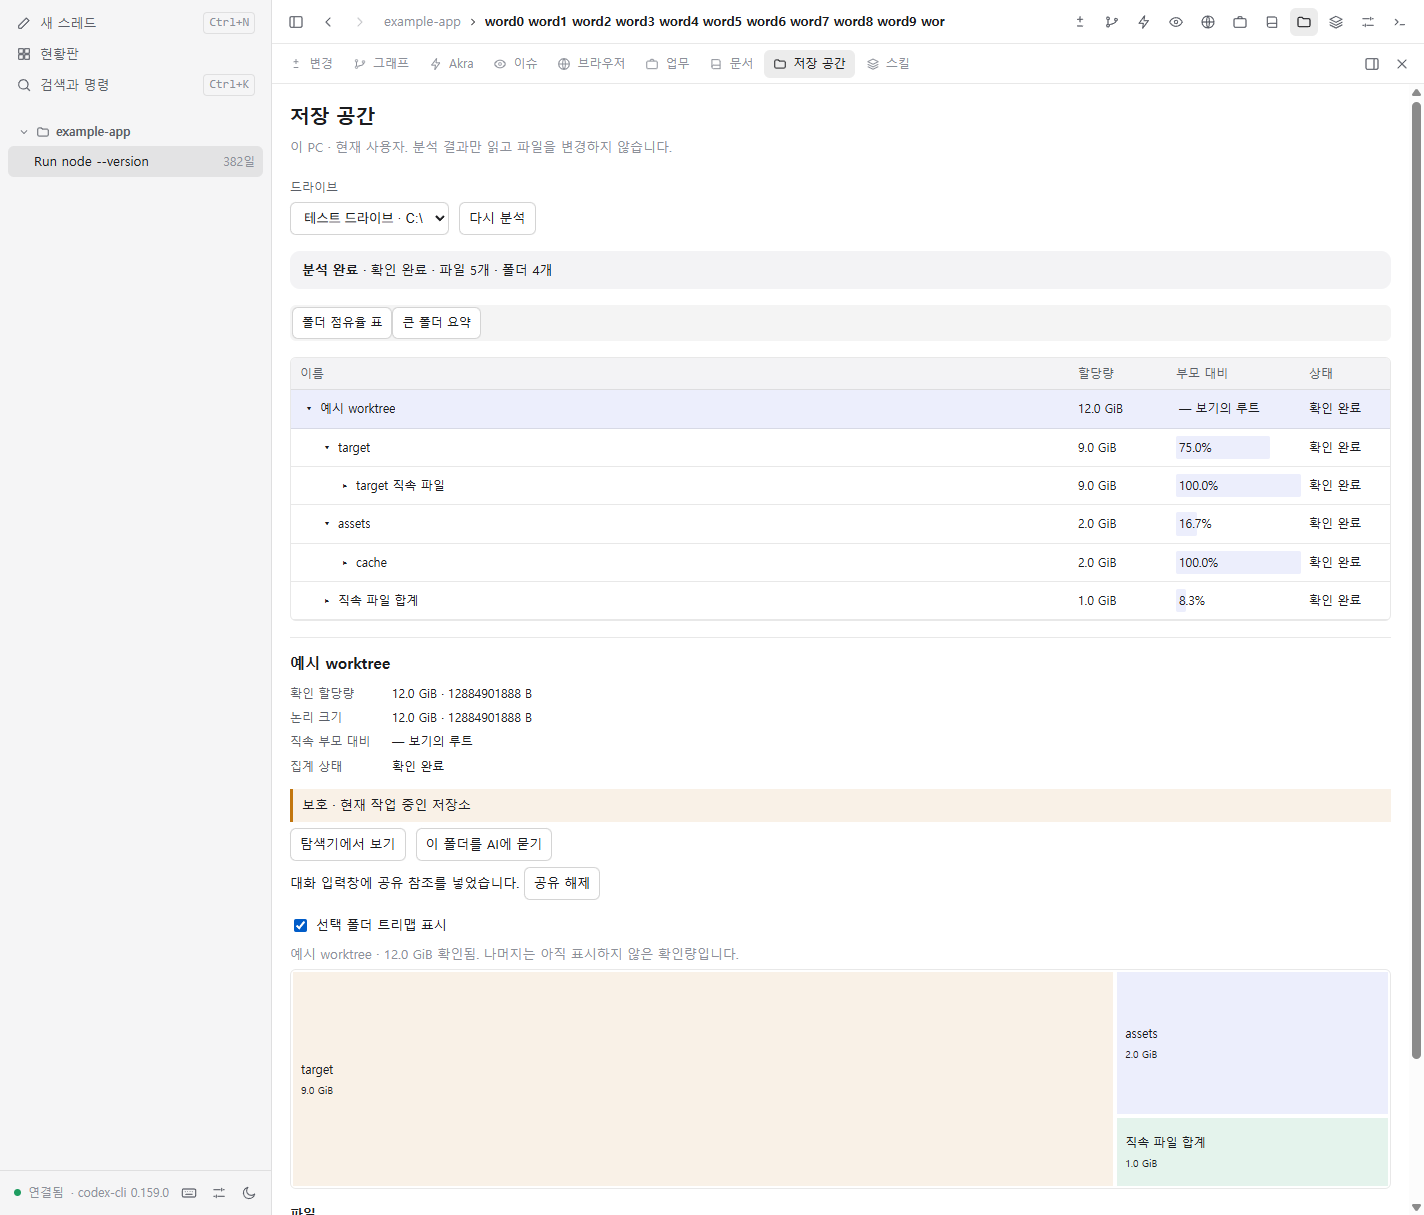
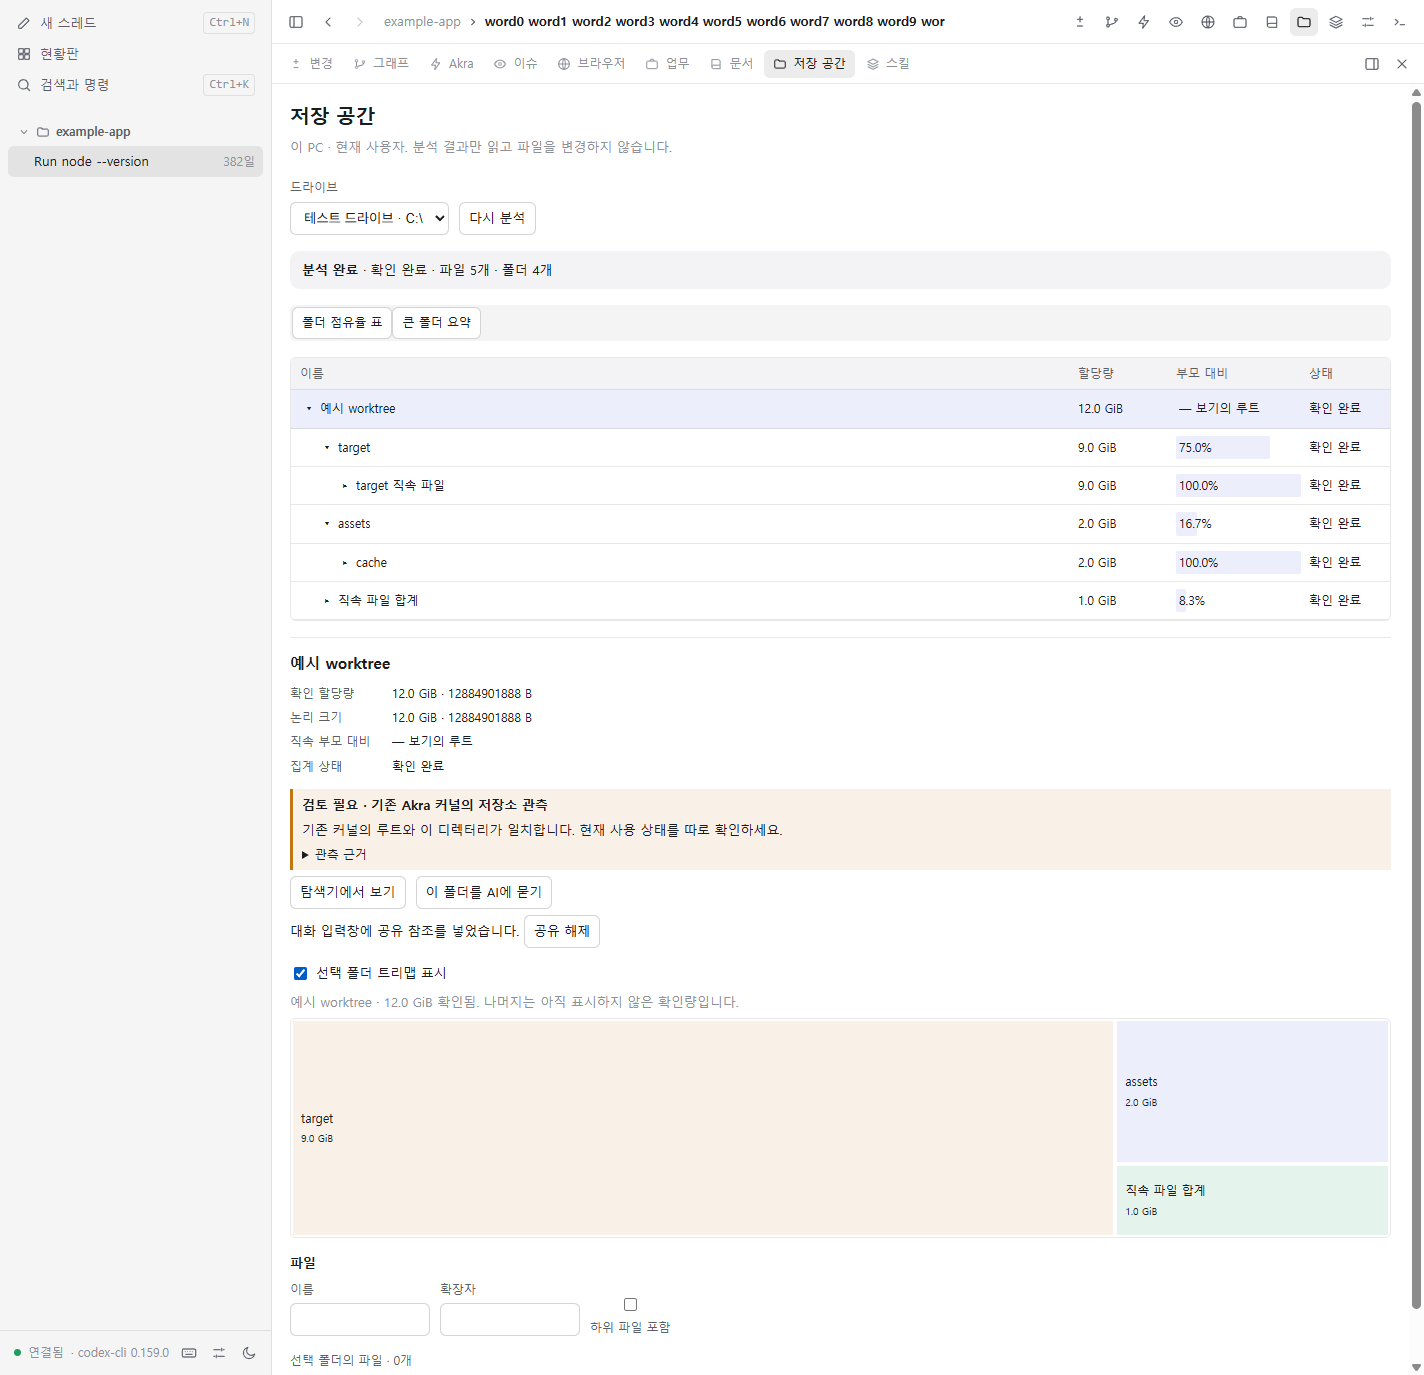
fix(desktop): explain storage protection observations in Korean

diff --git a/desktop/src/renderer/storage/StorageProtection.tsx b/desktop/src/renderer/storage/StorageProtection.tsx
@@ -1,0 +1,42 @@
+import type { StorageNode } from "./storageTypes";
+
+const descriptions: Record<string, { title: string; description: string }> = {
+  akra_known_repository: {
+    title: "기존 Akra 커널의 저장소 관측",
+    description: "기존 커널의 루트와 이 디렉터리가 일치합니다. 현재 사용 상태를 따로 확인하세요.",
+  },
+  runtime_candidates_partial: {
+    title: "기존 커널 목록 일부 미확인",
+    description: "조회 한도 등으로 기존 커널의 저장소 목록을 모두 확인하지 못했습니다. 목록에 없더라도 사용 중일 수 있습니다.",
+  },
+  untracked_observed: {
+    title: "Git 인덱스에 없는 경로 관측",
+    description: "발견한 파일 경로 일부가 Git 인덱스에 없습니다. ignore 규칙을 읽거나 적용하지 않아 Git의 미추적 파일 판정과 다를 수 있습니다.",
+  },
+  index_conflicts: {
+    title: "Git 인덱스 충돌 관측",
+    description: "Git 인덱스에 해결되지 않은 충돌 항목이 있습니다. 작업 내용을 확인하세요.",
+  },
+  index_paths_unknown: {
+    title: "Git 인덱스 경로 미확인",
+    description: "조회 실패·한도 초과·지원하지 않는 경로 등의 이유로 인덱스 경로를 확인하지 못했습니다. 작업 트리 상태를 판단할 수 없습니다.",
+  },
+  status_unknown: {
+    title: "작업 트리 상태 미확인",
+    description: "파일 본문과 ignore 규칙을 읽지 않았습니다. 관측한 인덱스·경로 정보만으로 변경 없음이나 삭제 가능 여부를 판단할 수 없습니다.",
+  },
+};
+
+export function StorageProtection({ reason }: { reason: StorageNode["protection"][number] }) {
+  const known = descriptions[reason.code];
+  const title = "검토 필요 · " + (known?.title ?? "추가 보호 사유");
+  return <div role="note" aria-label={title} className="storage-protection">
+    <strong>{title}</strong>
+    <p>{known?.description ?? reason.detail}</p>
+    {known && reason.detail && <details>
+      <summary>관측 근거</summary>
+      <p>{reason.detail}</p>
+      <p className="muted">관측 시점: {String(reason.observed_at)}</p>
+    </details>}
+  </div>;
+}

diff --git a/desktop/src/renderer/storage/StoragePanel.tsx b/desktop/src/renderer/storage/StoragePanel.tsx
@@ -9,6 +9,7 @@ import { sameSnapshot, useStorageExplorer } from "./useStorageExplorer";
 import { StorageTree } from "./StorageTree";
 import { StorageLiveTree } from "./StorageLiveTree";
 import { StorageTreemap } from "./StorageTreemap";
+import { StorageProtection } from "./StorageProtection";
 import { prepareStorageNavigation, type StorageNavigation } from "./storageNavigation";
 
 export default function StoragePanel({ call, epoch, scopeKey, threadId, enabled }: RegisteredPanelProps) {
@@ -230,7 +231,7 @@ export default function StoragePanel({ call, epoch, scopeKey, threadId, enabled 
           <dt>직속 부모 대비</dt><dd>{formatRatio(selected.ratio)}{selected.ratio.denominator_bytes !== null && ` (분모 ${selected.ratio.denominator_bytes} B)`}</dd>
           <dt>집계 상태</dt><dd>{completenessLabels[selected.state]}</dd></dl>
         {selected.issues.map(issue => <p key={issue.code}>{issue.message} · {issue.count}개</p>)}
-        {selected.protection.map((reason, index) => <p key={index} className="storage-protection">보호 · {reason.detail}</p>)}
+        {selected.protection.map((reason, index) => <StorageProtection key={index} reason={reason} />)}
         {selected.classification.map((item, index) => <p key={index} className="muted">{item.kind} · {item.evidence}</p>)}
         <div className="storage-controls">
           <button type="button" onClick={() => void reveal()} disabled={!enabled}>탐색기에서 보기</button>

diff --git a/desktop/src/renderer/storage/storage.css b/desktop/src/renderer/storage/storage.css
@@ -28,7 +28,7 @@
 .storage-details dl { display: grid; grid-template-columns: 95px 1fr; gap: 7px; font-size: var(--text-s); margin: 10px 0 14px; }
 .storage-details dt { color: var(--text-2); }
 .storage-details dd { margin: 0; overflow-wrap: anywhere; }
-.storage-protection { padding: 7px 9px; border-left: 3px solid var(--warn); background: var(--warn-bg); }
+.storage-protection { margin: 6px 0; padding: 7px 9px; border-left: 3px solid var(--warn); background: var(--warn-bg); }
 .storage-share { margin-top: 12px; padding: 12px; border: 1px solid var(--accent); border-radius: var(--radius-m); }
 .storage-share pre { white-space: pre-wrap; overflow-wrap: anywhere; font-size: var(--text-xs); max-height: 240px; overflow: auto; }
 .storage-share button { margin: 8px 8px 0 0; }
@@ -52,3 +52,6 @@
 .storage-evidence-link { border: 1px solid var(--line-strong); border-radius: var(--radius-s); padding: 3px 8px; color: var(--accent); background: var(--accent-bg); cursor: pointer; font: inherit; }
 
 .storage-live-tree .storage-tree-header, .storage-live-tree .storage-tree-row { grid-template-columns: minmax(160px, 1fr) minmax(160px, 1fr); min-width: 350px; }
+
+.storage-protection details { margin-top: 6px; overflow-wrap: anywhere; }
+.storage-protection summary { cursor: pointer; font-size: var(--text-s); }

diff --git a/docs/validation/storage-analysis/README.md b/docs/validation/storage-analysis/README.md
@@ -9,7 +9,7 @@
 | Desktop 정적 검사·단위 검사·패키지·빌드 | `powershell -File scripts/check_native_pr.ps1 -Mode Admin` 통과. Desktop 67개 파일, 1,069개 테스트 통과. 기존 1개 파일 / 7개 테스트 skip 유지 | CI 정책, Node 계약, 의존성 audit, 게임 재현 빌드, Desktop TypeScript / Vitest / 번들까지 실제 실행했다. 공유 node_modules junction을 제거하고 독립 의존성을 설치한 상태다. |
 | 기존 Desktop 전체 화면 회귀 | `npm run e2e` 종료 코드 0. 당시 27개 기본 시나리오 중 26개 성공, terminal 1개는 기존 Windows 기본 skip | 1차 구현 `f4dbcba9`에서 전체 실행했다. 블로그·스킬 lazy 패널, 커널, 이슈, 설정, 원격 호스트, vault 및 새 완료형 storage 화면을 포함한다. 실제 모델 서비스는 호출하지 않는다. |
 | 선택 경로·숫자 최소 회귀 | `npm --prefix desktop run check`, `vitest run test/storageNavigation.test.ts test/storageNumbers.test.ts`, Desktop build 통과. 단위 2개 파일 / 8개 테스트 통과 | 추가한 선택 경로 4개 시험은 파일의 canonical 조상 경로와 tree 전용 상세 행, 합계·treemap 중복 제외, 접힌 선택의 roving tabindex, 늦은 응답과 잘못된 경로·revision 거절을 검증한다. 위 전체 Vitest 결과와 별도 실행이다. |
-| 완료 결과·공유·근거 이동 | [storage-analysis.mjs](../../../desktop/test/e2e/storage-analysis.mjs) 통과 | 최종 입력 스키마에 없는 필드를 거절하는 fixture로 재검증한다. 명시 분석 1회, 닫기/재열기와 두 번째 클라이언트에서 추가 분석 없음, 12/9 GiB의 75.0%, 키보드 행 이동, 파일 Enter 선택 후 동일 tree 행 초점·부모 복귀, 접힌 중첩 요약·트리맵 선택의 조상 펼침과 roving tabindex, 파일 페이지·필터·재귀 조회, 미리보기 승인 후 입력창 삽입, 근거 행 초점, 연속 근거 클릭의 최신 요청 보존, 후속 갱신 중 필터 초점 유지, 늦은 응답 폐기, 패널 오류 격리·다시 열기, 외부 비활성화를 검증한다. |
+| 완료 결과·공유·근거 이동 | [storage-analysis.mjs](../../../desktop/test/e2e/storage-analysis.mjs) 통과 | 최종 입력 스키마에 없는 필드를 거절하는 fixture로 재검증한다. 명시 분석 1회, 닫기/재열기와 두 번째 클라이언트에서 추가 분석 없음, 12/9 GiB의 75.0%, 키보드 행 이동, 파일 Enter 선택 후 동일 tree 행 초점·부모 복귀, 접힌 중첩 요약·트리맵 선택의 조상 펼침과 roving tabindex, 파일 페이지·필터·재귀 조회, G 보호 사유의 한국어 검토 필요 표시·본문/ignore 미검증·원본 근거 보존, 미리보기 승인 후 입력창 삽입, 근거 행 초점, 연속 근거 클릭의 최신 요청 보존, 후속 갱신 중 필터 초점 유지, 늦은 응답 폐기, 패널 오류 격리·다시 열기, 외부 비활성화를 검증한다. |
 | 확장 import·상태 변경 비동기 경합 | [extension-lifecycle.mjs](../../../desktop/test/e2e/extension-lifecycle.mjs) 6개 시나리오 통과 | 실제 Electron의 StoragePanel 모듈 요청을 실패·지연시켜 import 실패 격리·재시도, loading 중 닫기·disable 후 늦은 완료 무시를 검증한다. 기존 fake Gateway로 설정 저장 오류 응답, 두 창의 반대 configure·오래된 catalog/응답, disable 중 재연결의 최종 비활성 권위를 검증한다. production 시험 hook과 모델 호출은 추가하지 않았으며 실제 저장 장치 오류나 native durable store를 시험한 것은 아니다. |
 | 진행 중 디렉터리·우선순위·취소 | [storage-live.mjs](../../../desktop/test/e2e/storage-live.mjs) 통과 | revision 0의 별도 metadata tree, 펼칠 때만 prioritize, queue full 표시, 닫기 중 늦은 응답, 동일 job 재열기, 취소 후 live 행 제거, 다음 명시 분석만 새 job 생성, 진행 목록의 공유 금지를 검증한다. 취소된 generic job의 result가 null이면 snapshot을 만들어내거나 조회하지 않는다. |
 | 실제 scanner/index와 공통 호스트 연결 | `cargo test --locked --lib storage_`: 통합 작업에서 46개 통과, benchmark 1개 ignored. `composition::storage_extension::tests::storage_extension_real_scan_and_shared_read_use_one_registered_index` 포함 | 실제 fixture 디렉터리 2개 / 파일 2개, native 메타데이터와 실제 SQLite index를 사용한다. registry 입출력 스키마, 비활성 실행 거절, enable 시 scan 0회, 명시 scan, 같은 idempotency key 재조회, 원본과 공유 값 일치, 범위 밖 거절, 대화 epoch, revoke, disable 색인 정리를 검증했다. 이 시험의 호스트 state store는 MemoryStore이다. |
@@ -26,6 +26,7 @@
 - 파일·요약·트리맵은 서버의 같은 node ID와 조상 경로로 표의 행을 펼치고 초점을 옮긴다. 선택 파일의 상세 행은 화면 경로에만 추가하며 집계 children이나 트리맵에 다시 더하지 않는다. 접혀 있는 선택에도 가장 가까운 표시 조상 행 하나를 Tab으로 찾을 수 있다.
 - 공유는 선택이나 탐색으로 시작되지 않는다. 반환된 미리보기의 필드를 확인하고 승인한 뒤 기존 대화 입력창에만 참조를 넣는다. 전송은 사용자의 기존 입력창 동작으로 남긴다.
 - `akra-storage:` 근거는 내부 동작이다. 서버 resolve 후 부모 경로와 행을 준비하고 현재 scope, snapshot revision, navigation revision, 사용자 상호작용이 모두 유지될 때만 선택과 초점을 옮긴다.
+- 기존 커널과 Git 인덱스의 관측 근거는 한국어 검토 사유로 표시한다. `untracked_observed`는 ignore 규칙을 적용한 Git 미추적 판정과 구분하고, `status_unknown`은 파일 본문·ignore 규칙을 읽지 않아 변경 없음이나 삭제 가능 여부를 판단할 수 없음을 명시한다. 한국어로 설명한 사유의 원본 detail과 관측 시점은 펼쳐 볼 수 있고, 알 수 없는 사유도 원문을 표시한다.
 - pending 디렉터리는 확정 snapshot과 별도 모델이다. 바이트·비율·공유를 제공하지 않으며 완료된 결과만 기존 표로 전환한다.
 
 ## V3: fake Gateway 실행 중 Desktop 관측
